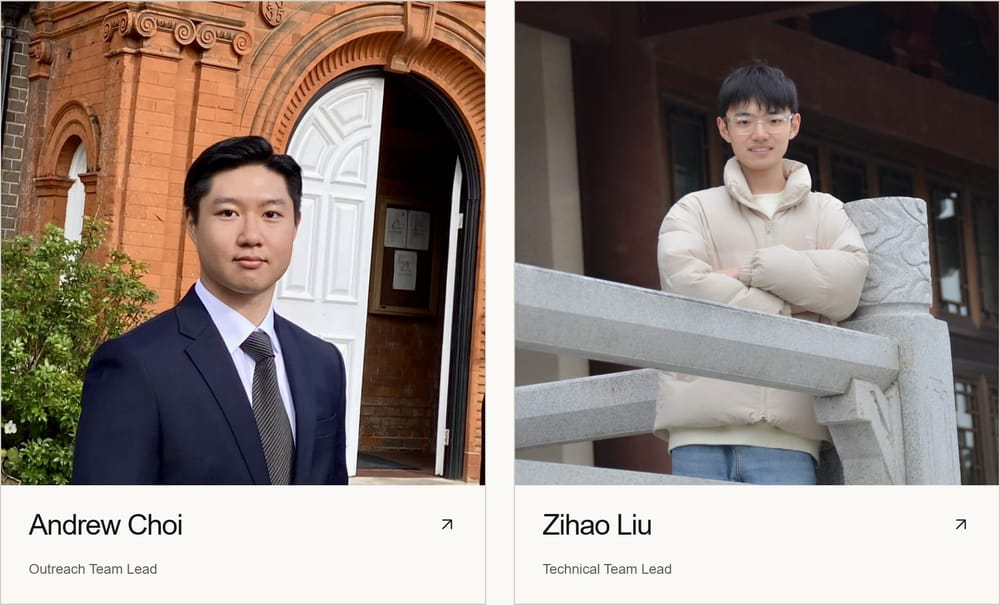
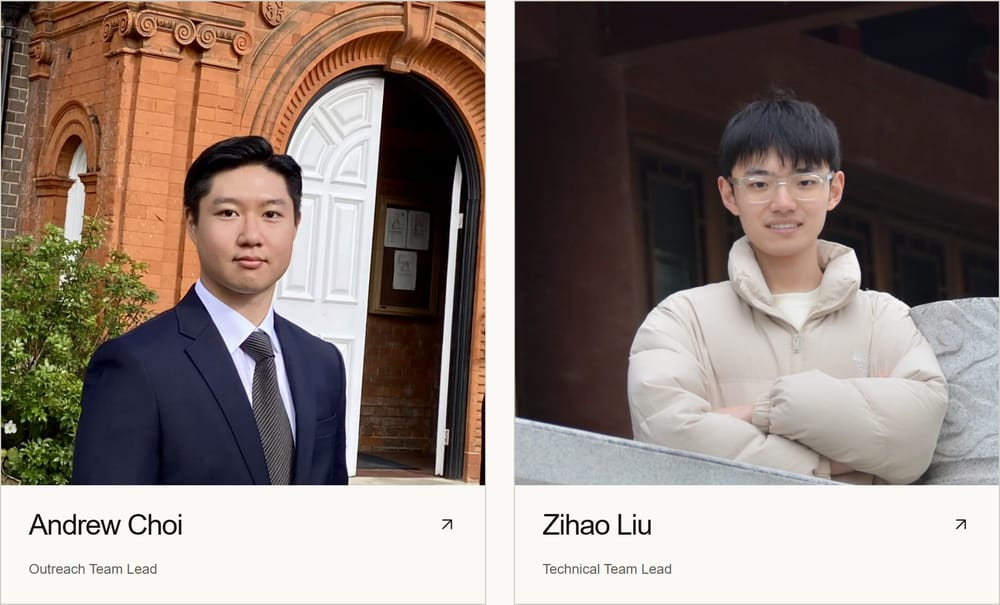
Crop the Technical Team Lead portrait for even card scale
Uncropping the cards exposed a scale mismatch the old fixed-height band
had hidden: Andrew's head filled about 25% of his square against roughly
14% for Zihao's. Cropping the untouched 2424px original to a centred
1600px square anchored on the head brings it to about 21%, which reads
evenly against the paired card while keeping the arms, railing and
carved stone post intact.

The framing is baked into the delivered pixels rather than done with
object-position, so the square-framing rule still holds and no surface
crops at render time. A tighter 1400px crop was rejected for overshooting
Andrew's head size and cutting through the forearms.

Changed region(s): [[0.496, 0.0298, 1.0, 0.8033], [0.806, 0.0, 0.899, 0.0595], [0.992, 0.119, 1.0, 0.1488]]

diff --git a/DESIGN.md b/DESIGN.md
@@ -27,7 +27,7 @@ For a fix that preserves the rules, add a change record explaining the regressio
 - Reuse the existing club marks, hero illustration and real member portraits. Source partner logos from official publishers and retain their geometry, proportions and colors. Never generate partner logos.
 - The three approved activity illustrations are decorative artwork. Brand marks and illustration assets retain their source files, and portraits keep their photographed composition (see the portrait delivery rule below); interactive UI pictograms follow the icon rules below.
 - Generate new imagery only for a concrete gap in the existing inventory. Record its purpose, source/prompt, intended size and accessible treatment before generation. Never fabricate team portraits or event photography.
-- Member portraits are delivered at display size: square, no larger than 1200px per side, progressive JPEG. Resizing and compressing for the web is allowed; cropping, retouching, recoloring or regenerating a portrait is not. Keep the camera original outside the repository, because `images/` is copied wholesale into `web/public/` and shipped.
+- Member portraits are delivered at display size: square, no larger than 1200px per side, progressive JPEG. Resizing and compressing for the web is allowed, and the owner may direct a framing crop so portraits on the same surface read at a similar scale. Never crop, retouch, recolor or regenerate a portrait on your own initiative. Keep the untouched camera original outside the repository, because `images/` is copied wholesale into `web/public/` and shipped.
 
 ## Visual system
 
@@ -138,3 +138,11 @@ Read `AGENTS.md` for branch, build, preview and publication requirements. Keep t
 - Acceptance: `npm run build` and `npm run check:design` pass; measured card and profile image boxes report a 1:1 ratio with 0% cover crop at 1440px, 903px and 375px; portrait bytes compared before and after; both listing images and both detail profiles load from a clean `sync-assets` run; no broken images, document overflow, console errors or hydration warnings.
 - Open item: the compact non-promoted card (`site-member-small`) keeps its short fixed band and now contradicts the square-framing rule. It renders only for a member record without a `promoted` field, which none currently have, so it was left alone rather than inventing a new compaction. Decide how it compacts before adding such a member.
 - Status: implemented and verified locally. Design guard and static build passed. Measured with headless Chromium at 1440px, 903px and 375px: listing cards render 421×421 / 402×402 / 333×333 and detail profiles 340×340 / 280×280 / 335×335, every one a 1:1 box with 0% `object-fit: cover` crop, where the listing band previously discarded 29% of each portrait's height. Portrait payload fell from 2,650KB to 225KB (Andrew 1,212→117KB, Zihao 1,439→102KB). Both listing images and both detail profiles load from a clean `sync-assets` run, confirming the corrected `zihao_liu.jpg` reference; the previous build only appeared to work because a stale PNG survived in `web/public/`. No broken images, document overflow, console errors or page errors. See [screenshots](docs/design/team-portraits-2026-10-09/). Preview kept on port 4102; awaiting owner review, not published.
+
+### 9 October 2026 — owner-directed framing crop on the Technical Team Lead portrait
+
+- Request: uncropping surfaced a scale mismatch the fixed-height band had been hiding — Andrew's head fills about 25% of his square against roughly 14% for Zihao's, so the two leads read unevenly side by side. The owner asked whether a crop was warranted and authorised modifying the portrait file itself in both locations.
+- Surfaces: `images/team/zihao_liu.jpg` and its `web/public/` copy, feeding the `/team/` card and the `/team/zihao_liu/` profile.
+- Implementation intent: crop the untouched 2424px camera original to a centred 1600×1600 square anchored on the head, then deliver at the existing 1200px size, bringing the head to about 21% of frame. A 1400px crop was rejected: it overshot to a larger head than Andrew's and cut through the forearms. The framing is baked into the pixels rather than done with `object-position`, so the square-framing rule above still holds and no surface crops at render time.
+- Acceptance: side-by-side card comparison at the real 421px render size against Andrew's portrait; head scale within a few points of the paired card with arms, railing and stone post intact; build and design guard pass; listing and profile still measure 1:1 at 0% render crop at 1440px, 903px and 375px; uncropped original retained outside the repository.
+- Status: implemented and verified locally. Design guard and static build passed. Re-measured at 1440px, 903px and 375px after the crop: listing cards 421×421 / 402×402 / 333×333 and profiles 340×340 / 280×280 / 335×335, still 1:1 at 0% render crop, with no broken images, overflow, console or page errors. The head now fills about 21% of the square against Andrew's 25%, and the paired cards read evenly at the real render size. The crop also trimmed the file to 75KB, so the two delivered portraits total 192KB rather than the 225KB recorded above, against 2,650KB originally. The untouched 2424px camera original is retained outside the repository at `cuabc-team-portrait-backup-2026-10-09/zihao_liu.jpg.orig`. Screenshots refreshed in the same folder. Awaiting owner review; not published.
